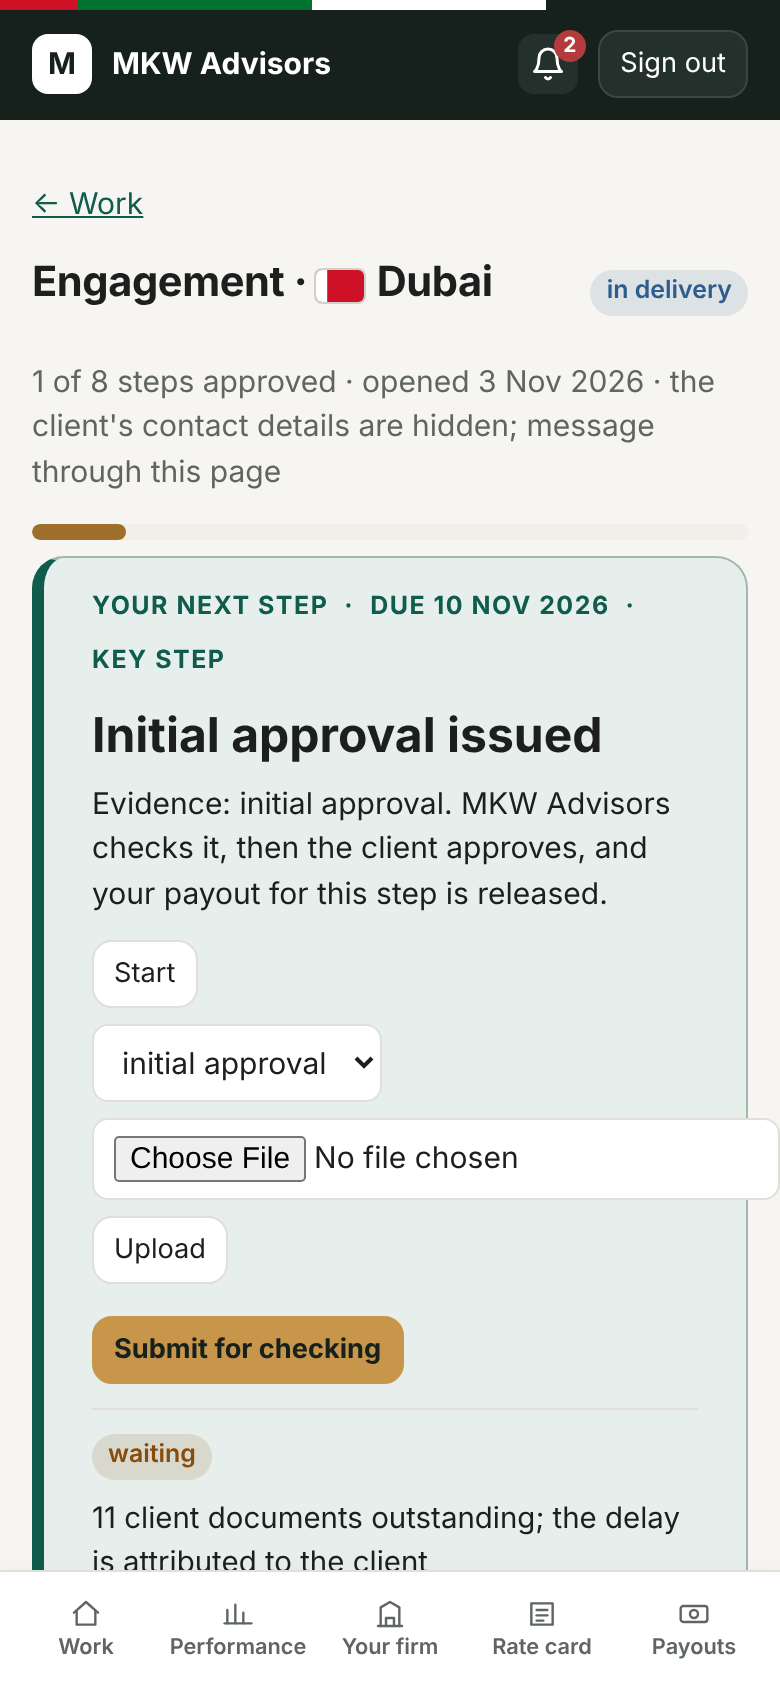
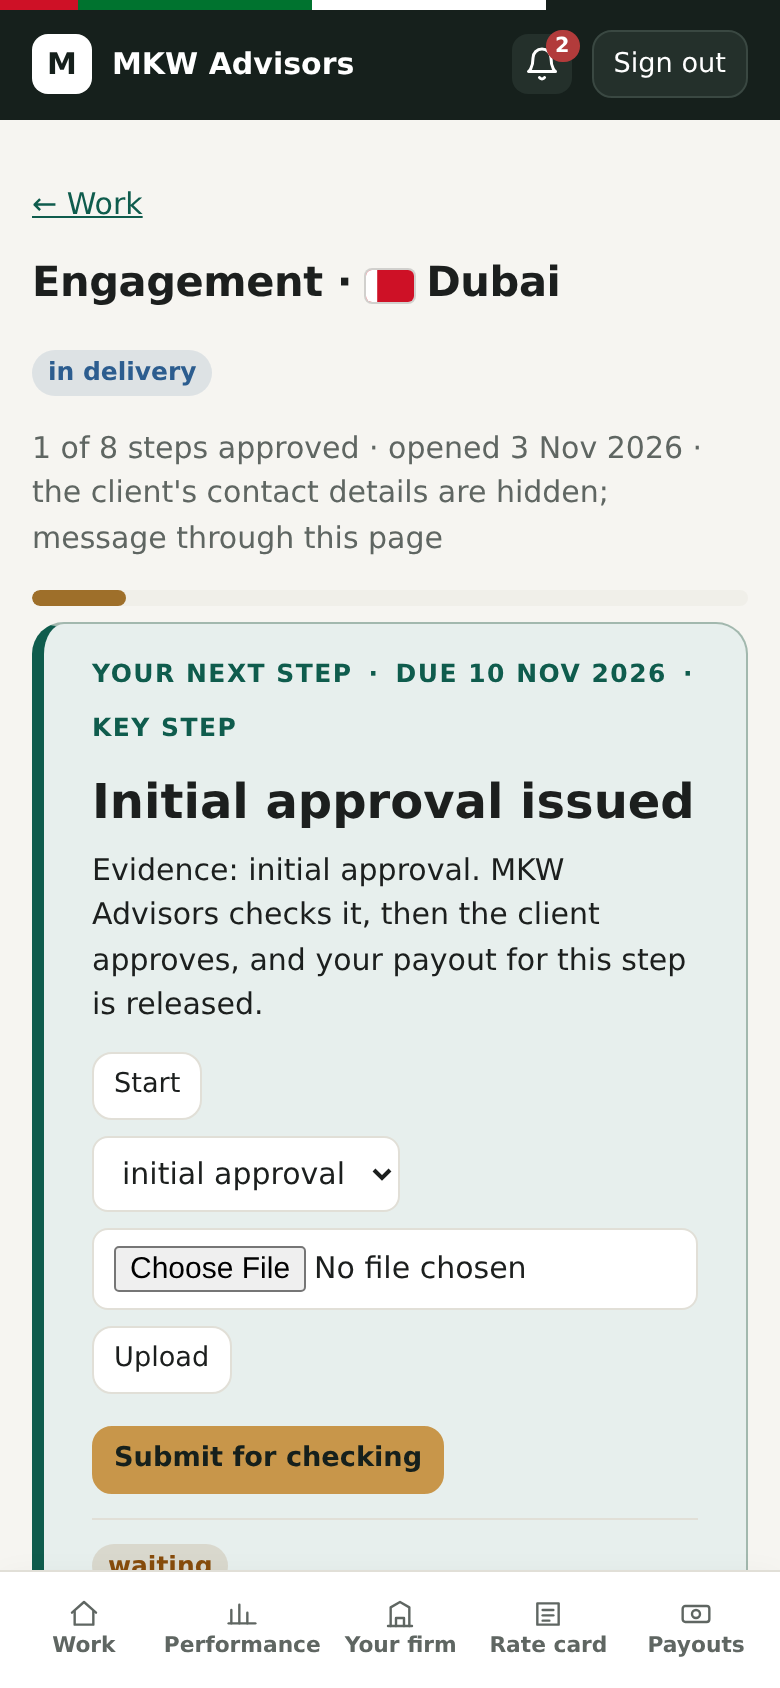
E10: the evidence form inside the step's actions may shrink to the row (CI's DejaVu Sans made the partner engagement 393 px on a 390 px phone); SMOKE_WIDE_FONT reproduces CI's font
Claude-Session: https://claude.ai/code/session_01QzEGiu7q2Qy5LpHAKh2X9v

diff --git a/apps/web/public/styles.css b/apps/web/public/styles.css
@@ -370,8 +370,11 @@ nav#nav > a, .navbtn { display: inline-flex; align-items: center; font-weight: 5
 .navmenu a { display: flex; align-items: center; }
 .navbtn > svg:first-child { width: 16px; height: 16px; margin-inline-end: 5px; }
 .search input { width: 180px; }
-/* A file picker in a row may shrink to the row's width: its "Choose file / No file chosen" text is wider in some fonts. */
-.row > input[type="file"] { min-width: 0; flex: 1 1 160px; max-width: 100%; }
+/* A form inside a row of actions (the partner's evidence upload beside Start) takes the row's width and may shrink:
+   as a flex item it would otherwise keep its content's width and, with a wider font (DejaVu Sans on Linux), push a
+   390 px page 3 px wide. */
+.actions > form { min-width: 0; flex: 1 1 100%; }
+.row > input[type="file"] { min-width: 0; max-width: 100%; }
 /* E10: partners get the same dark MKW Advisors bar; their phone tab bar stays light (below 641 px). */
 body:is([data-audience="platform"], [data-audience="partner"]) .top { background: var(--ink-panel); border-bottom-color: var(--ink-panel); color: var(--ink-panel-text); }
 body:is([data-audience="platform"], [data-audience="partner"]) .brand, body:is([data-audience="platform"], [data-audience="partner"]) .brand small, body:is([data-audience="platform"], [data-audience="partner"]) .who { color: var(--ink-panel-muted); }

diff --git a/outcomes/E10-partner-look.md b/outcomes/E10-partner-look.md
@@ -63,6 +63,14 @@ No blocking finding. Applied:
 - doc wording is corrected, and the canvas's streak is kept open as gap 117;
 - the M favicon for partners and staff (rule 10).
 
+## CI
+
+CI's smoke run (DejaVu Sans on Linux) found the partner engagement 393 px wide on a 390 px phone. The cause was the
+evidence form, a flex item inside the row of step actions, which kept its content's width. It now takes the row's
+width and may shrink (`.actions > form`). `SMOKE_WIDE_FONT=1` renders the partner phone pages in DejaVu Sans, which
+reproduced the failure here and shows the fix (390/390 px). The phone checks now log page width, tab bar and top bar
+colours.
+
 ## Dependencies
 
 E9 (the look, helpers and tokens). No new library.
